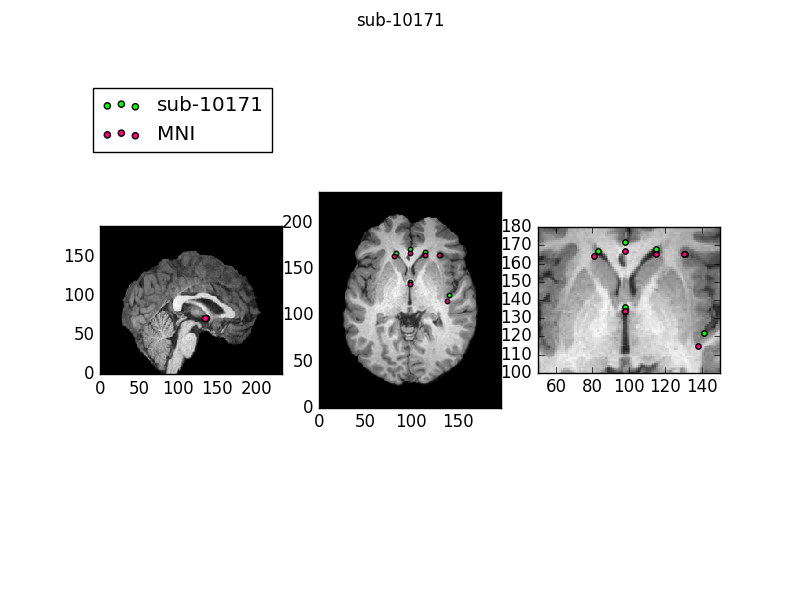
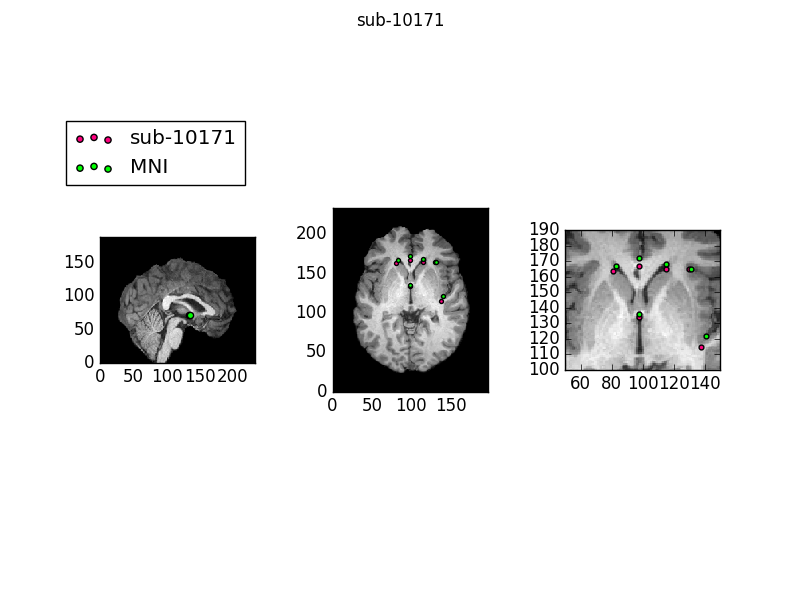
final updates to images

diff --git a/code/fmri_utils/registration/registration_report.py b/code/fmri_utils/registration/registration_report.py
@@ -4,7 +4,7 @@ demonstration of registration section, to use in report
 Default usage in makefile. This will produce figures used in report by loading
 results of registration run on the original images (SCALE = 1).
 
-$ python registration_report load 1 sub-10159 sub-10171 sub-10189 sub-10193 sub-10206 sub-10217 sub-10225
+$ python registration_report.py load 1 sub-10159 sub-10171 sub-10189 sub-10193 sub-10206 sub-10217 sub-10225
 
 
 You can redo this registration from original skull-stripped MNI and subject T1
@@ -122,9 +122,9 @@ elif instruction == 'rerun':
 ##### produce *.nii* and *png for registration steps #####
 
 # always display with SCALE=1, even if registration used downsampled images
-for i in range(N):
-    print('\nGENERATING TRANSFORMED IMAGES: '+subjects[i])
-    generate_transformed_images(static_filename, subject_T1s[i], 1, subject_output_dirs[i], subject_output_dirs[i])
+# for i in range(N):
+#     print('\nGENERATING TRANSFORMED IMAGES: '+subjects[i])
+#     generate_transformed_images(static_filename, subject_T1s[i], 1, subject_output_dirs[i], subject_output_dirs[i])
 
 subject_sheared_T1s = [pjoin(subject_output_dirs[i], subjects[i]+affine_endings[-1]+'.nii.gz') for i in range(N)]
 
@@ -170,7 +170,7 @@ def save_coords_on_img(subj_line, MNI_line):
     fig, axes = plt.subplots(1,3)
     fig.suptitle(subj_line[0])
 
-    for j in [0,1]:
+    for j in [1,0]:
         img = nib.load(dot_sets[j][8])
 
         inv_affine = npl.inv(img.affine)
@@ -185,8 +185,8 @@ def save_coords_on_img(subj_line, MNI_line):
             axes[2].imshow(data[...,int(mid_coord[-1])].T)
 
         axes[0].scatter([mid_coord[1]],[mid_coord[2]], s = 20, c = colors[j])
-        axes[1].scatter([mid_coord[0]],[mid_coord[1]], s = 10, c = colors[j])
-        axes[2].scatter([mid_coord[0]],[mid_coord[1]], s = 15, c = colors[j])
+        axes[1].scatter([mid_coord[0]],[mid_coord[1]], s = 8, c = colors[j])
+        axes[2].scatter([mid_coord[0]],[mid_coord[1]], s = 12, c = colors[j])
 
 
         for i in range(3,8):
@@ -195,8 +195,8 @@ def save_coords_on_img(subj_line, MNI_line):
             if subj_pt != '':
                 subj_xyz = str_to_array(subj_pt)
                 coord = subj_xyz.dot(mat)+vec
-                axes[1].scatter([coord[0]],[coord[1]], s = 10, c = colors[j])
-                axes[2].scatter([coord[0]],[coord[1]], s = 15, c = colors[j])
+                axes[1].scatter([coord[0]],[coord[1]], s = 8, c = colors[j])
+                axes[2].scatter([coord[0]],[coord[1]], s = 12, c = colors[j])
 
 
 
@@ -209,10 +209,12 @@ def save_coords_on_img(subj_line, MNI_line):
     axes[1].set_ylim([0, data.shape[1]])
 
 
+
+
     axes[2].set_xlim([50, 150])
-    axes[2].set_ylim([100, 180])
+    axes[2].set_ylim([100, 190])
 
-
+    fig.subplots_adjust(wspace=0.5)
 
 
     return fig
@@ -222,11 +224,11 @@ for s in subjects:
 
         f = save_coords_on_img(coord_dict[s], coord_dict['MNI'])
         #report images created with:
-        #f.savefig(pjoin(figs_dir, s+'.png'))
+        f.savefig(pjoin(figs_dir, s+'.png'))
 
         #adjust filename to prevent overwrite of report images:
-        f.savefig(pjoin(figs_dir, instruction+'_'+s+'.png'))
-
+        #f.savefig(pjoin(figs_dir, instruction+'_'+s+'.png'))
+        #plt.show()
     else:
         print('landmarks not identified for this subject; skipping figure generation')
 
